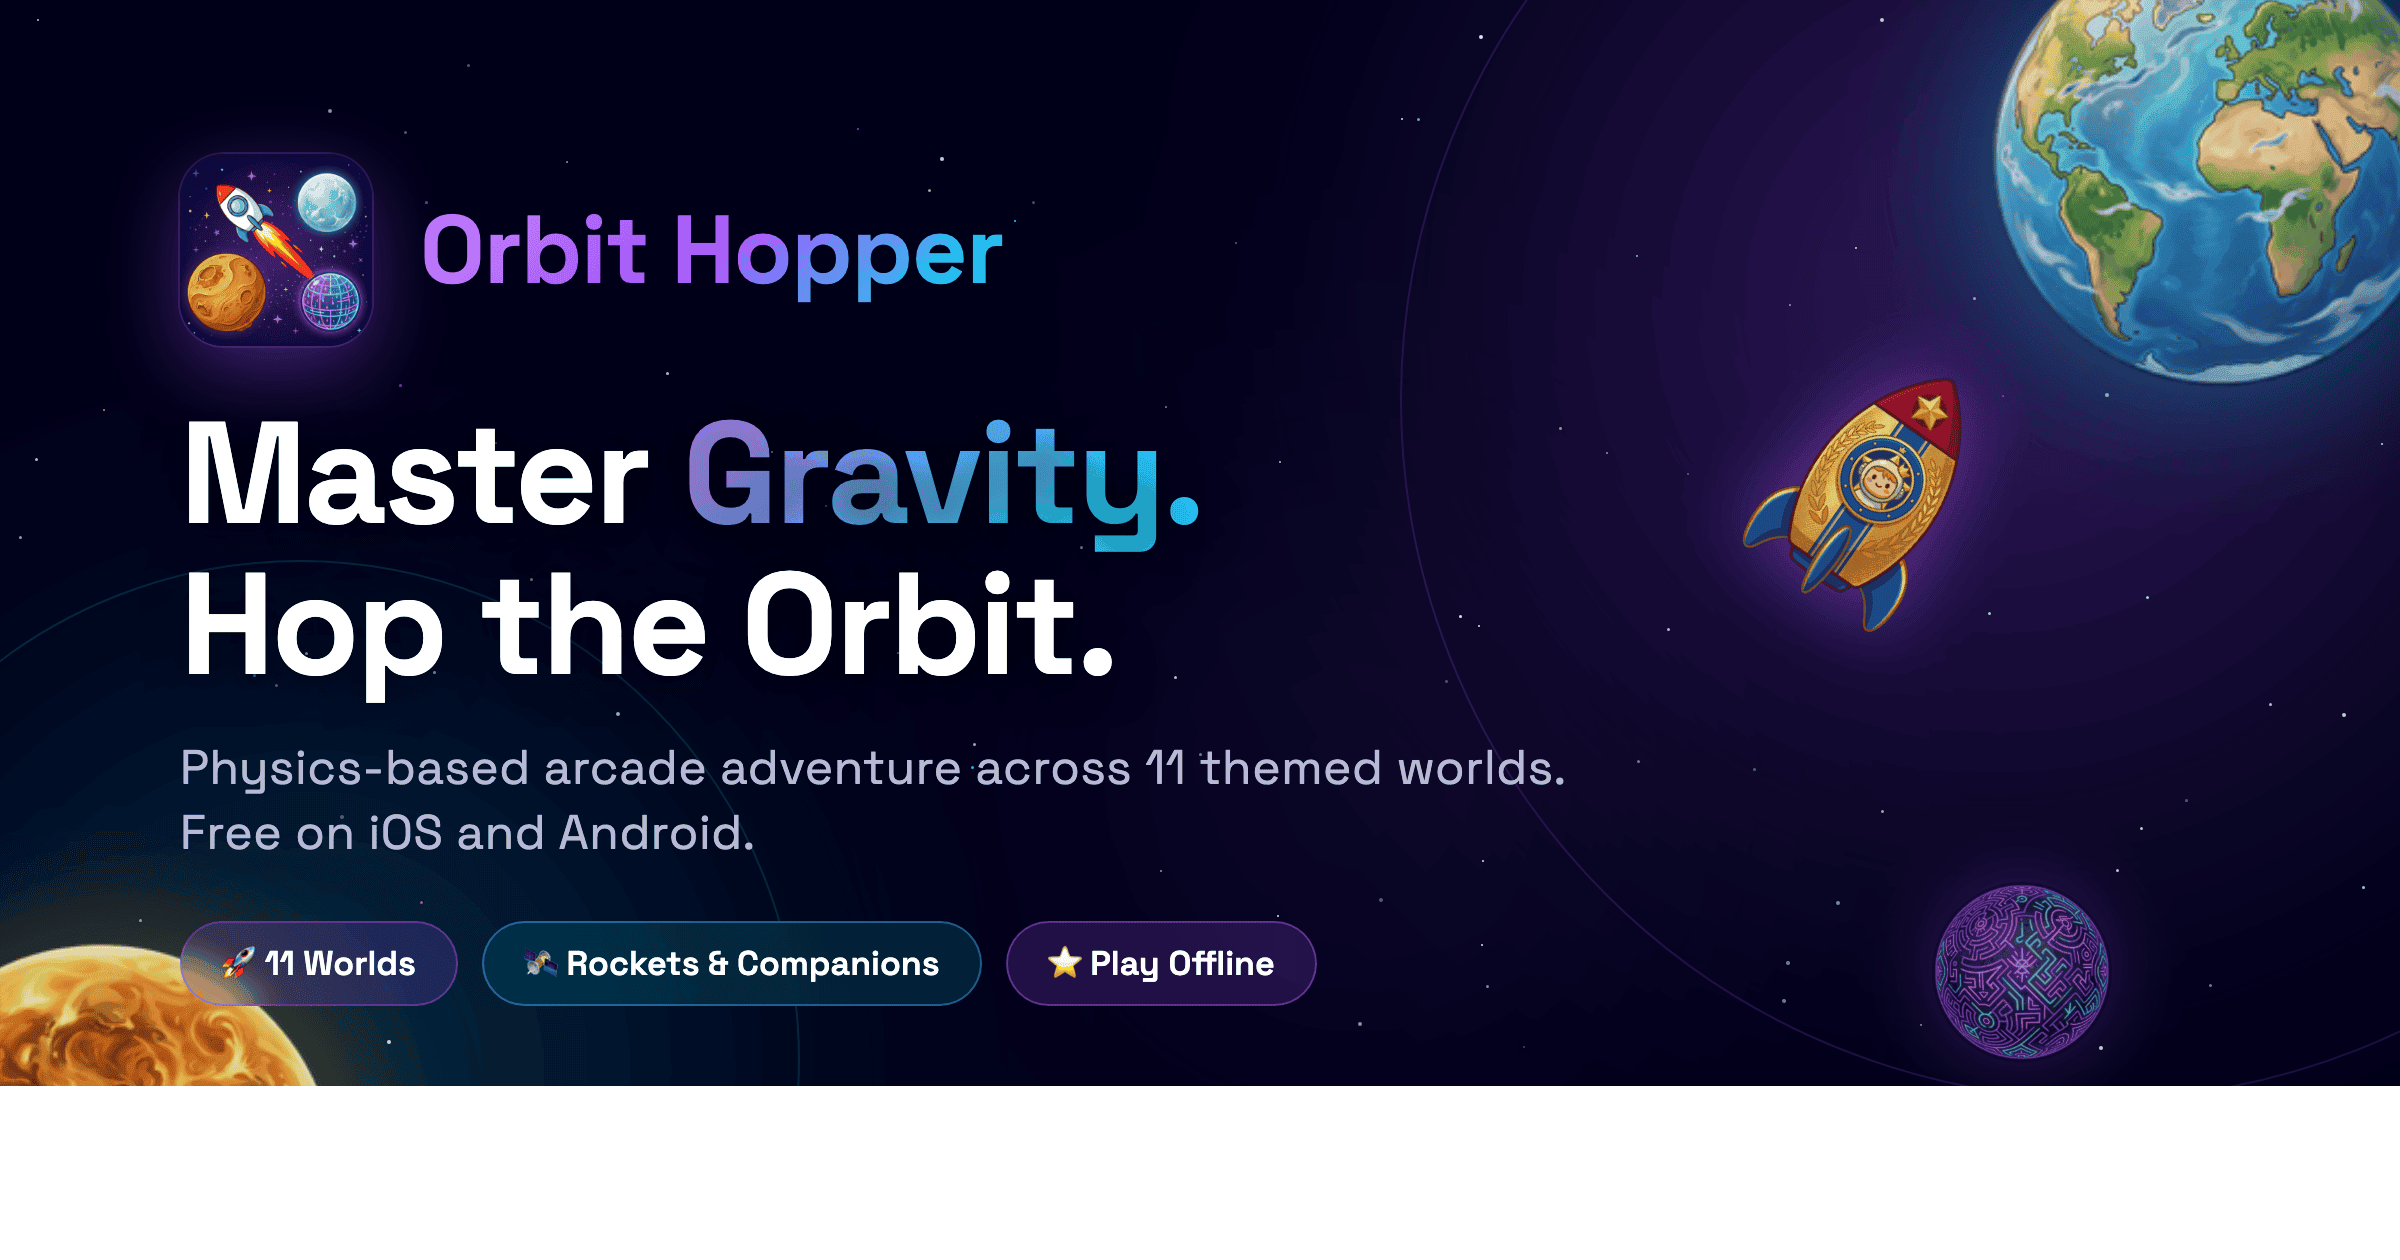
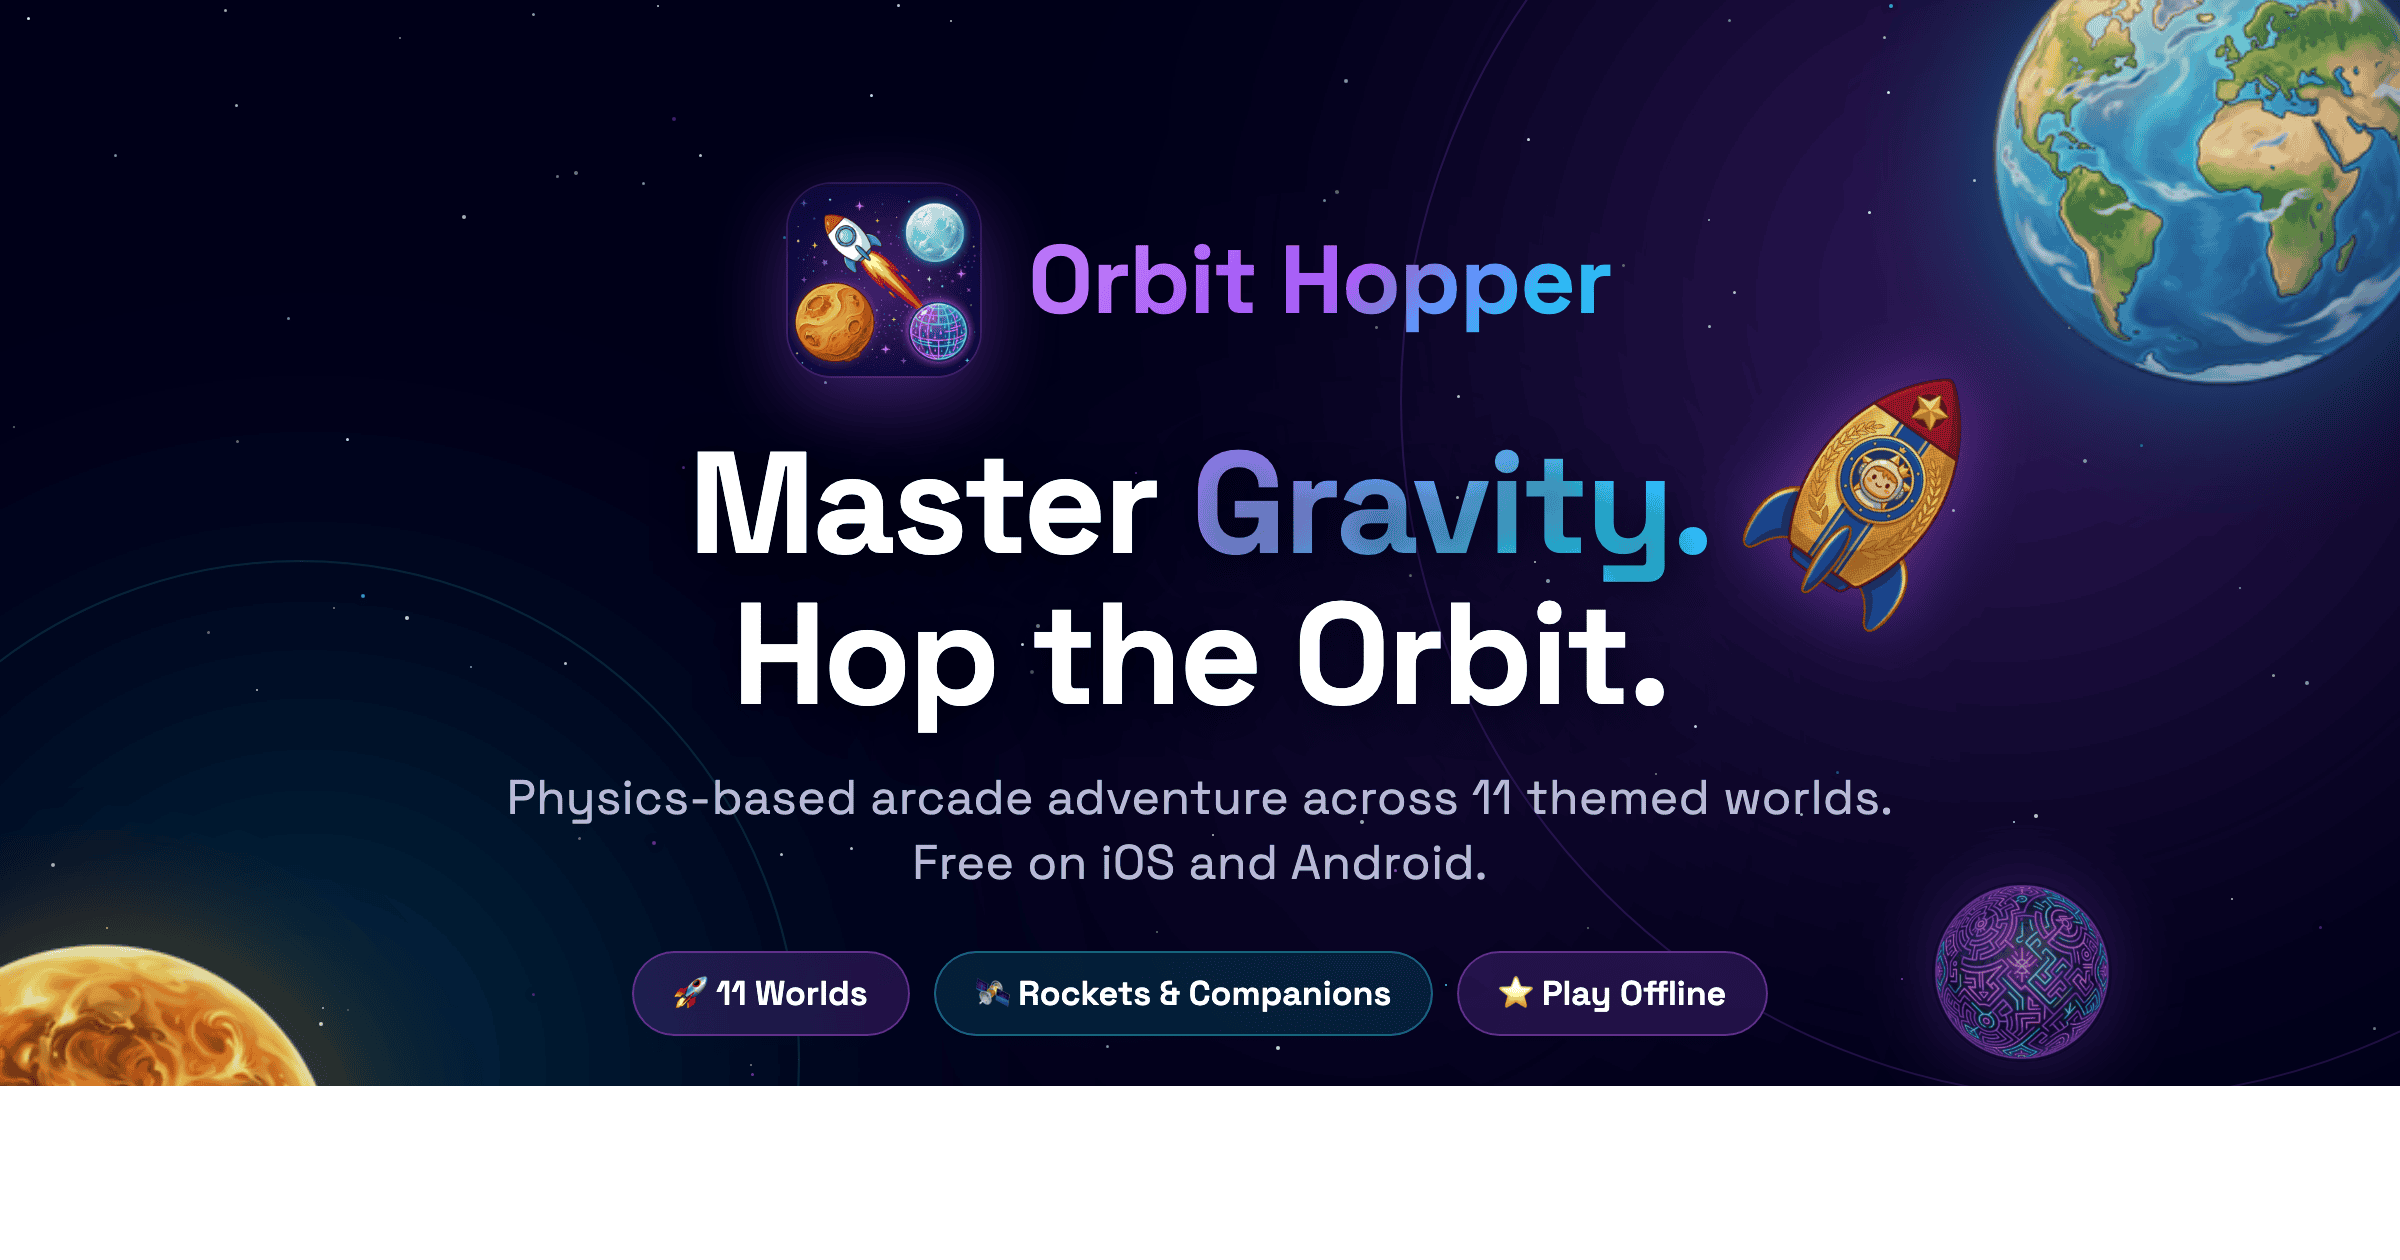
center og-image content so whatsapp square crop doesn't chop it

diff --git a/og-image.html b/og-image.html
@@ -145,14 +145,17 @@
             display: flex;
             flex-direction: column;
             justify-content: center;
+            align-items: center;
+            text-align: center;
             padding: 0 90px;
-            padding-bottom: 50px;
+            padding-bottom: 20px;
             z-index: 5;
         }
 
         .logo-row {
             display: flex;
             align-items: center;
+            justify-content: center;
             gap: 24px;
             margin-bottom: 26px;
         }
@@ -201,6 +204,7 @@
         .pill-row {
             margin-top: 28px;
             display: flex;
+            justify-content: center;
             gap: 12px;
         }
         .pill {
